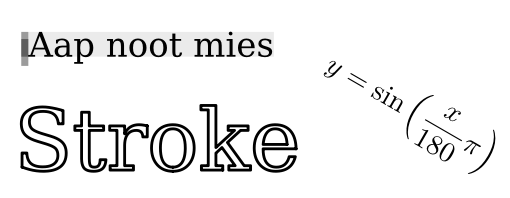
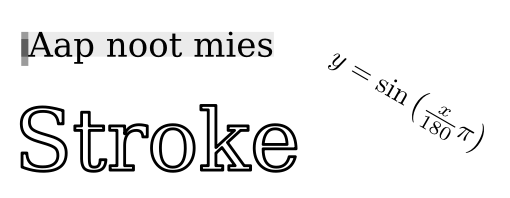
Bugfix: close paths on fonts

Changed region(s): [[0.6176, 0.2727, 0.9706, 0.8485], [0.9118, 0.8485, 0.9412, 0.8788]]

diff --git a/font.go b/font.go
@@ -236,24 +236,32 @@ func (ff FontFace) ToPath(s string) *Path {
 				continue
 			}
 
-			for _, segment := range segments {
+			var start0, end Point
+			for i, segment := range segments {
 				switch segment.Op {
 				case sfnt.SegmentOpMoveTo:
-					end := fromP26_6(segment.Args[0])
+					if i != 0 && start0.Equals(end) {
+						p.Close()
+					}
+					end = fromP26_6(segment.Args[0])
 					p.MoveTo(x+end.X, y+end.Y)
+					start0 = end
 				case sfnt.SegmentOpLineTo:
-					end := fromP26_6(segment.Args[0])
+					end = fromP26_6(segment.Args[0])
 					p.LineTo(x+end.X, y+end.Y)
 				case sfnt.SegmentOpQuadTo:
 					c := fromP26_6(segment.Args[0])
-					end := fromP26_6(segment.Args[1])
+					end = fromP26_6(segment.Args[1])
 					p.QuadTo(x+c.X, y+c.Y, x+end.X, y+end.Y)
 				case sfnt.SegmentOpCubeTo:
 					c0 := fromP26_6(segment.Args[0])
 					c1 := fromP26_6(segment.Args[1])
-					end := fromP26_6(segment.Args[2])
+					end = fromP26_6(segment.Args[2])
 					p.CubeTo(x+c0.X, y+c0.Y, x+c1.X, y+c1.Y, x+end.X, y+end.Y)
 				}
+			}
+			if !p.Empty() && start0.Equals(end) {
+				p.Close()
 			}
 
 			advance, err := ff.font.GlyphAdvance(&sfntBuffer, index, ff.ppem, ff.hinting)

diff --git a/example/main.go b/example/main.go
@@ -19,7 +19,7 @@ func main() {
 	defer svgFile.Close()
 
 	svg := canvas.NewSVG(svgFile)
-	svg.AddFontFile("DejaVuSerif", canvas.Regular, "DejaVuSerif.woff")
+	svg.AddFontFile("DejaVuSerif", canvas.Regular, "DejaVuSerif.ttf")
 	Draw(svg)
 	svg.Close()
 
@@ -32,7 +32,7 @@ func main() {
 	defer pngFile.Close()
 
 	img := canvas.NewImage(72.0)
-	img.AddFontFile("DejaVuSerif", canvas.Regular, "DejaVuSerif.woff")
+	img.AddFontFile("DejaVuSerif", canvas.Regular, "DejaVuSerif.ttf")
 	Draw(img)
 	_ = png.Encode(pngFile, img.Image())
 
